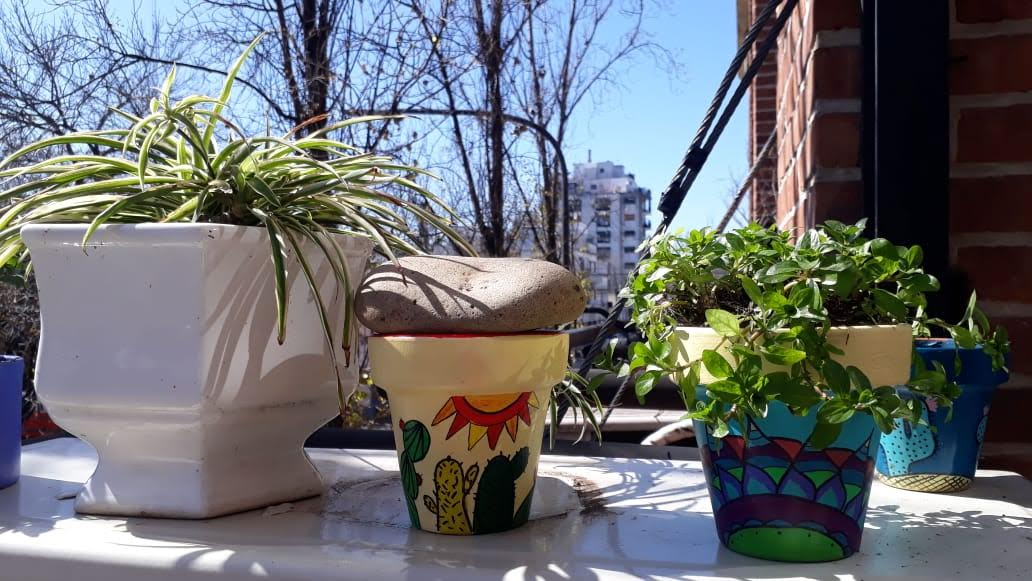
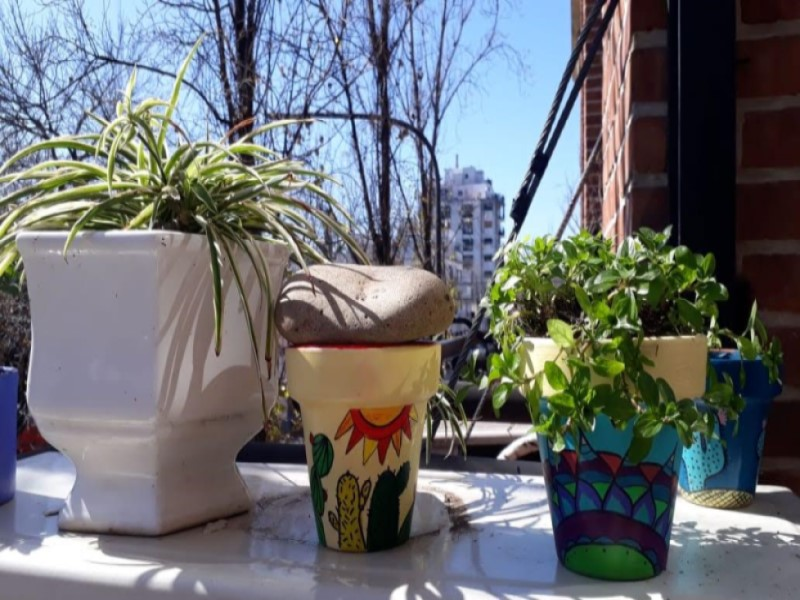
cambio de resolución en galería

diff --git a/paginas/galeria.html b/paginas/galeria.html
@@ -63,7 +63,7 @@
         <div class="galeria__fotos">
             <div>
                 <img src="../imagenes/zorroVera.jpg" alt="Maceta de Zorro Asoleando">
-                <img src="../imagenes/Bicimate.JPG" alt="Bici floral sobre mate">
+                <img src="../imagenes/bici_mate.jpg" alt="Bici floral sobre mate">
                 <img src="../imagenes/gatosEnlaNoche.jpg" alt="Maceta de Cat Jam">
                 <img src="../imagenes/Sucumandala.jpg" alt="Mandala sobre maceta y suculenta">
             </div>
